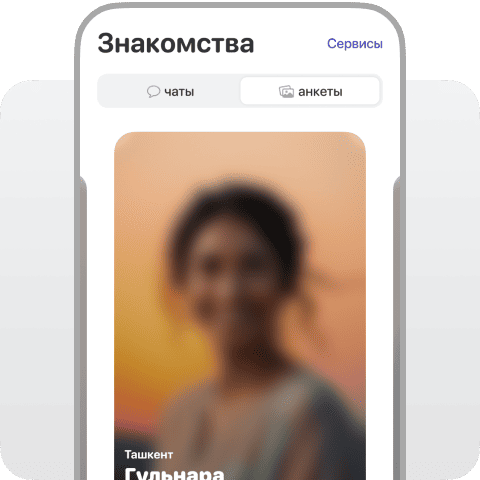
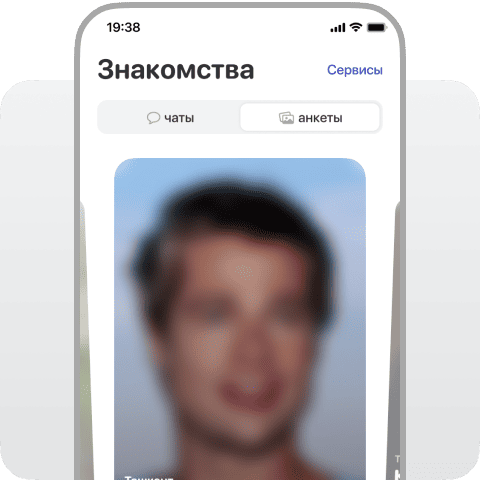
поправил картинки на главной под темную тему

diff --git a/src/app/home-page/home-page.component.html b/src/app/home-page/home-page.component.html
@@ -169,7 +169,13 @@
                 <ul class="appAdv__list">
                     <li class="appAdv__item">
                         <div class="appAdv__image">
-                            <img src="assets/images/home-page/appAdv1.png" alt="appAdvantage">
+                            <img class="forLightTheme" src="assets/images/home-page/appAdv1.png" alt="appAdvantage">
+                            <img class="forDarkTheme" src="assets/images/home-page/appAdv1Dark.png" alt="appAdvantage">
+                            <picture class="forSystemTheme">
+                                <source srcset="assets/images/home-page/appAdv1.png" media="(prefers-color-scheme: light)">
+                                <source srcset="assets/images/home-page/appAdv1Dark.png" media="(prefers-color-scheme: dark)">
+                                <img src="assets/images/home-page/appAdv1.png" alt="appAdvantage">
+                            </picture>
                         </div>
                         <div class="appAdv__content">
                             <h2 class="moduleTitle">
@@ -184,7 +190,13 @@
                     </li>
                     <li class="appAdv__item">
                         <div class="appAdv__image">
-                            <img src="assets/images/home-page/appAdv2.png" alt="appAdvantage">
+                            <img class="forLightTheme" src="assets/images/home-page/appAdv2.png" alt="appAdvantage">
+                            <img class="forDarkTheme" src="assets/images/home-page/appAdv2Dark.png" alt="appAdvantage">
+                            <picture class="forSystemTheme">
+                                <source srcset="assets/images/home-page/appAdv2.png" media="(prefers-color-scheme: light)">
+                                <source srcset="assets/images/home-page/appAdv2Dark.png" media="(prefers-color-scheme: dark)">
+                                <img src="assets/images/home-page/appAdv2.png" alt="appAdvantage">
+                            </picture>
                         </div>
                         <div class="appAdv__content">
                             <h2 class="moduleTitle">
@@ -197,7 +209,13 @@
                     </li>
                     <li class="appAdv__item">
                         <div class="appAdv__image">
-                            <img src="assets/images/home-page/appAdv3.png" alt="appAdvantage">
+                            <img class="forLightTheme" src="assets/images/home-page/appAdv3.png" alt="appAdvantage">
+                            <img class="forDarkTheme" src="assets/images/home-page/appAdv3Dark.png" alt="appAdvantage">
+                            <picture class="forSystemTheme">
+                                <source srcset="assets/images/home-page/appAdv3.png" media="(prefers-color-scheme: light)">
+                                <source srcset="assets/images/home-page/appAdv3Dark.png" media="(prefers-color-scheme: dark)">
+                                <img src="assets/images/home-page/appAdv3.png" alt="appAdvantage">
+                            </picture>
                         </div>
                         <div class="appAdv__content">
                             <h2 class="moduleTitle">
@@ -210,7 +228,13 @@
                     </li>
                     <li class="appAdv__item">
                         <div class="appAdv__image">
-                            <img src="assets/images/home-page/appAdv4.png" alt="appAdvantage">
+                            <img class="forLightTheme" src="assets/images/home-page/appAdv4.png" alt="appAdvantage">
+                            <img class="forDarkTheme" src="assets/images/home-page/appAdv4Dark.png" alt="appAdvantage">
+                            <picture class="forSystemTheme">
+                                <source srcset="assets/images/home-page/appAdv4.png" media="(prefers-color-scheme: light)">
+                                <source srcset="assets/images/home-page/appAdv4Dark.png" media="(prefers-color-scheme: dark)">
+                                <img src="assets/images/home-page/appAdv4.png" alt="appAdvantage">
+                            </picture>
                         </div>
                         @if (1 && mobileDetectService.osDevice?.toLowerCase() === 'ios') {
                             <div class="appAdv__content">

diff --git a/src/app/home-page/home-page.component.scss b/src/app/home-page/home-page.component.scss
@@ -287,7 +287,7 @@ $shadowHeightInMobile: 20px;
             .appAdv__image {
                 flex: 1;
                 max-width: 500px;
-                filter: var(--image-filter-brightness);
+                // filter: var(--image-filter-brightness);
 
                 img {
                     max-width: 100%;
